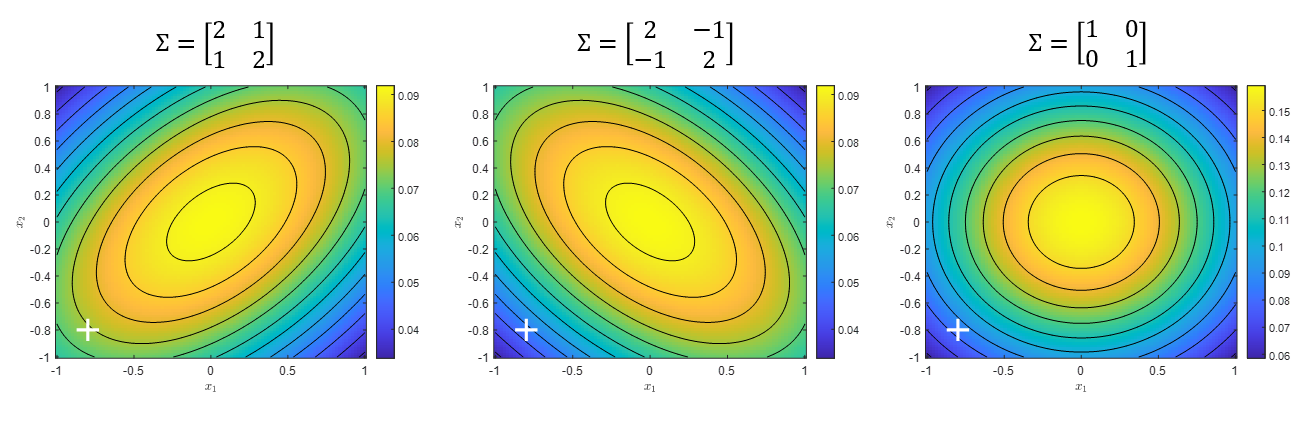
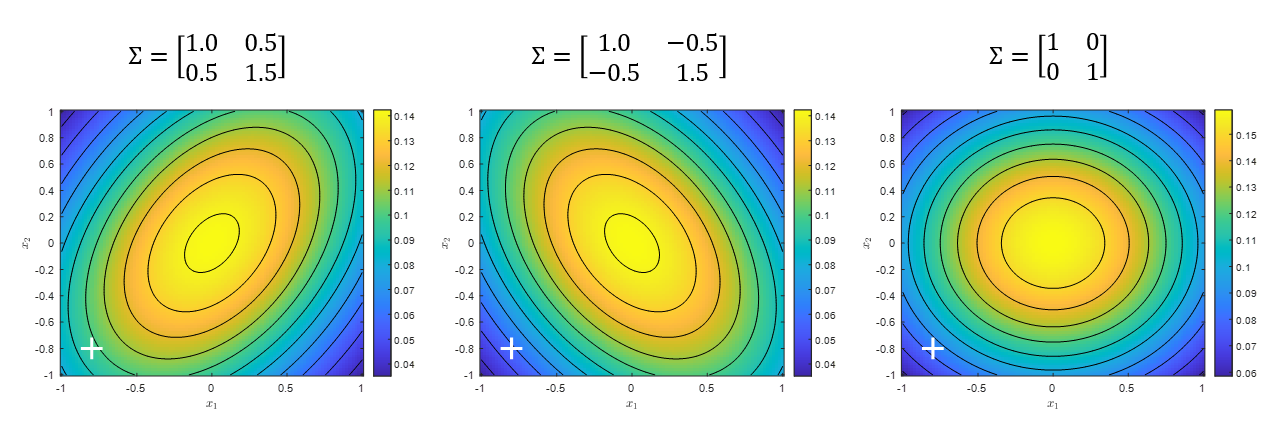
-

diff --git a/pics/2022-09-28-Mahalanobis_distance/pics.m b/pics/2022-09-28-Mahalanobis_distance/pics.m
@@ -216,8 +216,8 @@ bi_norm = @(x, mu, S) (2*pi)^(-1)/sqrt(det(S))*exp(-1/2*(x-mu)'*inv(S)*(x-mu));
 
 [X, Y] = meshgrid(linspace(-1,1,100));
 mu = [0; 0];
-S1 = [2,1;1,2];
-S2 = [2,-1;-1,2];
+S1 = [2,1;1,3]/2;
+S2 = [2,-1;-1,3]/2;
 S3 = [1,0;0,1];
 z1 = zeros(100,100);
 z2 = zeros(100,100);

diff --git a/_posts/2022-09-28-Mahalanobis_distance.md b/_posts/2022-09-28-Mahalanobis_distance.md
@@ -94,7 +94,23 @@ $$d_M = \sqrt{(\vec x-\vec y)^T\Sigma^{-1}(\vec x-\vec y)} % 식 (2)$$
 <p align = "center">
   <img width = "800" src = "https://raw.githubusercontent.com/angeloyeo/angeloyeo.github.io/master/pics/2022-09-28-Mahalanobis_distance/types_of_bivariate_gaussian.png">
  <br>
- 그림 7. 
+ 그림 7. 가장 대표적인 세 가지 형태의 2변수 정규 분포
+</p>
+
+공분산 행렬의 각 원소가 뜻하는 바는 각 feature들의 분산 혹은 공분산이다. 다시 말해, 그림 7과 같이 feature가 2개인 경우 1번 feature와 2번 feature가 각각 x 축 방향, y 축 방향으로 얼마나 데이터들이 퍼져서 분포하는지, 그리고 1번, 2번 feature가 얼마나 함께 변하는지를 나타내는 것이다. 
+
+<p align = "center">
+  <img width = "800" src = "https://raw.githubusercontent.com/angeloyeo/angeloyeo.github.io/master/pics/2022-09-28-Mahalanobis_distance/meaning_of_cov_mtx.png">
+ <br>
+ 그림 8. 공분산 행렬의 각 원소가 의미하는 것
+</p>
+
+그런데, 분산의 개념은 상대적으로 이해하기가 쉬운 것이 x 축 혹은 y 축을 떼어놓고 데이터를 보는 것은 직관적이기 때문이다. 반면에 공분산의 개념은 복잡하다. 왜냐하면 x, y축으로 함께 퍼진다는 말은 쉽게 이해하기 어렵기 때문이다. 따라서, 우리는 새로운 축을 잡고 데이터를 표현하는 것이 합리적이라는 사실을 알 수 있다. 그림 7의 가장 왼쪽의 그림을 예로 들어 아래와 같이 주축(principal axis)을 생각해보자.
+
+<p align = "center">
+  <img width = "800" src = "https://raw.githubusercontent.com/angeloyeo/angeloyeo.github.io/master/pics/2022-09-28-Mahalanobis_distance/principal_axis.png">
+ <br>
+ 그림 9. 특정 분포에 대한 주축을 생각해보자
 </p>
 
 ## iid 정규분포 샘플 대한 기초적인 이해
